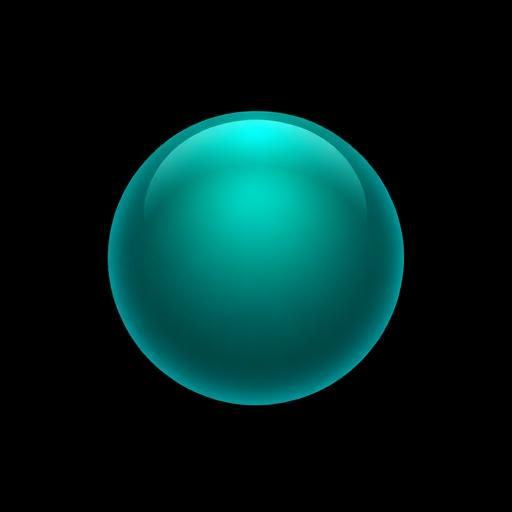
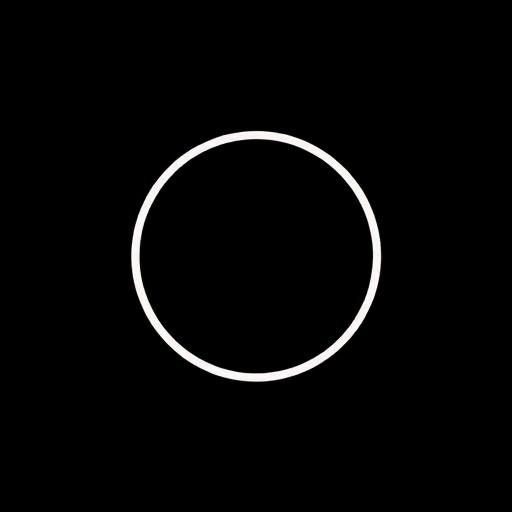
Changes

Changed region(s): [[0.1875, 0.2188, 0.8125, 0.8125]]

diff --git a/src/components/KnowledgeSphere.tsx b/src/components/KnowledgeSphere.tsx
@@ -1,6 +1,6 @@
 import { useRef, useState, useEffect, useMemo } from 'react';
 import { Canvas, useFrame, useThree, ThreeEvent } from '@react-three/fiber';
-import { OrbitControls, Sphere, MeshDistortMaterial, Text } from '@react-three/drei';
+import { OrbitControls, Sphere } from '@react-three/drei';
 import { damp3 } from 'maath/easing';
 import * as THREE from 'three';
 import { Category, ViewLevel } from '@/types/knowledge';
@@ -32,33 +32,15 @@ interface NodeProps {
   cameraPosition: THREE.Vector3;
 }
 
-function InteractiveNode({ position, color, name, onClick, isHovered, onHover, isSubcategory = false, cameraPosition }: NodeProps) {
+function InteractiveNode({ position, color, onClick, isHovered, onHover, isSubcategory = false }: Omit<NodeProps, 'name' | 'cameraPosition'> & { name?: string }) {
   const meshRef = useRef<THREE.Mesh>(null);
-  const glowRef = useRef<THREE.Mesh>(null);
   
   const baseSize = isSubcategory ? 0.1 : 0.12;
-  const glowSize = isSubcategory ? 0.15 : 0.2;
-  
-  // Check if node is on the front side of the sphere (facing camera)
-  const isFrontFacing = useMemo(() => {
-    const nodePos = new THREE.Vector3(...position);
-    const cameraDir = cameraPosition.clone().normalize();
-    const nodeDir = nodePos.clone().normalize();
-    return nodeDir.dot(cameraDir) > 0.1; // Threshold for "front facing"
-  }, [position, cameraPosition]);
-  
-  // Calculate distance-based text scale
-  const textScale = useMemo(() => {
-    const nodePos = new THREE.Vector3(...position);
-    const dist = nodePos.distanceTo(cameraPosition);
-    return Math.max(0.08, Math.min(0.12, 0.5 / dist));
-  }, [position, cameraPosition]);
   
   useFrame(() => {
-    if (meshRef.current && glowRef.current) {
-      const scale = isHovered ? 1.3 : 1;
+    if (meshRef.current) {
+      const scale = isHovered ? 1.4 : 1;
       meshRef.current.scale.lerp(new THREE.Vector3(scale, scale, scale), 0.1);
-      glowRef.current.scale.lerp(new THREE.Vector3(scale * 1.5, scale * 1.5, scale * 1.5), 0.1);
     }
   });
 
@@ -69,13 +51,7 @@ function InteractiveNode({ position, color, name, onClick, isHovered, onHover, i
 
   return (
     <group position={position}>
-      {/* Outer glow - using emissive for accurate color */}
-      <mesh ref={glowRef}>
-        <sphereGeometry args={[glowSize, 16, 16]} />
-        <meshBasicMaterial color={color} transparent opacity={isSubcategory ? 0.15 : 0.2} />
-      </mesh>
-      
-      {/* Main node - MeshBasicMaterial for true color independent of lighting */}
+      {/* Main node - solid color, no text */}
       <mesh
         ref={meshRef}
         onClick={handleClick}
@@ -88,79 +64,23 @@ function InteractiveNode({ position, color, name, onClick, isHovered, onHover, i
           toneMapped={false}
         />
       </mesh>
-      
-      {/* Inner bright core for glow effect */}
-      <mesh>
-        <sphereGeometry args={[baseSize * 0.7, 16, 16]} />
-        <meshBasicMaterial
-          color={color}
-          transparent
-          opacity={0.9}
-          toneMapped={false}
-        />
-      </mesh>
-
-      {/* Billboard text label - only for front-facing nodes */}
-      {isFrontFacing && (
-        <Text
-          position={[0, baseSize + 0.18, 0]}
-          fontSize={textScale}
-          color="#ffffff"
-          anchorX="center"
-          anchorY="bottom"
-          outlineWidth={0.008}
-          outlineColor="#000000"
-          maxWidth={1}
-        >
-          {name}
-        </Text>
-      )}
     </group>
   );
 }
 
 interface CentralSphereProps {
-  color?: string;
-  distort?: number;
   scale?: number;
 }
 
-function CentralSphere({ color = "#22c55e", distort = 0.3, scale = 2 }: CentralSphereProps) {
-  const sphereRef = useRef<THREE.Mesh>(null);
-  const wireframeRef = useRef<THREE.Mesh>(null);
-
-  useFrame(() => {
-    if (sphereRef.current) {
-      sphereRef.current.rotation.y += 0.002;
-    }
-    if (wireframeRef.current) {
-      wireframeRef.current.rotation.y += 0.001;
-    }
-  });
-
+function CentralSphere({ scale = 2 }: CentralSphereProps) {
   return (
-    <>
-      {/* Main solid sphere */}
-      <Sphere ref={sphereRef} args={[scale, 64, 64]}>
-        <MeshDistortMaterial
-          color={color}
-          attach="material"
-          distort={distort}
-          speed={2}
-          roughness={0.2}
-          metalness={0.1}
-        />
-      </Sphere>
-      {/* Wireframe overlay */}
-      <Sphere ref={wireframeRef} args={[scale * 1.02, 32, 32]}>
-        <meshBasicMaterial
-          color="#4ade80"
-          wireframe
-          transparent
-          opacity={0.15}
-        />
-      </Sphere>
-    </>
+    <Sphere args={[scale, 128, 128]}>
+      <meshStandardMaterial
+        color="#d4d4d4"
+        roughness={0.3}
+        metalness={0.1}
+      />
+    </Sphere>
   );
 }
 
@@ -231,7 +151,6 @@ function SceneContent({
   isMobile
 }: SceneContentProps) {
   const [hoveredId, setHoveredId] = useState<string | null>(null);
-  const [cameraPosition, setCameraPosition] = useState<THREE.Vector3>(new THREE.Vector3(0, 0, 20));
   
   const cameraConfig = useMemo(() => {
     if (level === 'root') {
@@ -264,32 +183,28 @@ function SceneContent({
     });
   }, [subcategories]);
 
-  const sphereColor = activeCategory ? activeCategory.color : "#22c55e";
-
   return (
     <>
       <AnimatedCamera 
         targetPosition={cameraConfig.position} 
         targetLookAt={cameraConfig.lookAt}
-        onPositionUpdate={setCameraPosition}
+        onPositionUpdate={() => {}}
       />
 
-      <CentralSphere color={sphereColor} />
+      <CentralSphere />
 
-      <ambientLight intensity={1.2} />
-      <directionalLight position={[5, 5, 5]} intensity={1} />
-      <directionalLight position={[-5, -5, -5]} intensity={0.5} />
+      <ambientLight intensity={0.6} />
+      <directionalLight position={[10, 10, 10]} intensity={1} />
+      <directionalLight position={[-10, -10, -10]} intensity={0.3} />
 
       {level === 'root' && categoriesWithPositions.map(category => (
         <InteractiveNode
           key={category.id}
           position={[category.position_x, category.position_y, category.position_z]}
           color={category.color}
-          name={category.name}
           onClick={() => onCategoryClick(category)}
           isHovered={hoveredId === category.id}
           onHover={(hovered) => setHoveredId(hovered ? category.id : null)}
-          cameraPosition={cameraPosition}
         />
       ))}
 
@@ -298,12 +213,10 @@ function SceneContent({
           key={subcat.id}
           position={[subcat.position_x, subcat.position_y, subcat.position_z]}
           color={activeCategory?.color || '#22c55e'}
-          name={subcat.name}
           onClick={() => onSubcategoryClick(subcat)}
           isHovered={hoveredId === subcat.id}
           onHover={(hovered) => setHoveredId(hovered ? subcat.id : null)}
           isSubcategory
-          cameraPosition={cameraPosition}
         />
       ))}
 
@@ -350,7 +263,7 @@ export function KnowledgeSphere({
         camera={{ position: [0, 0, 7], fov: 50 }}
         gl={{ antialias: true, alpha: true }}
       >
-        <color attach="background" args={['#fafafa']} />
+        <color attach="background" args={['#0a0a0a']} />
         <SceneContent
           categories={categories}
           subcategories={subcategories}

diff --git a/src/components/UniverseView.tsx b/src/components/UniverseView.tsx
@@ -118,7 +118,7 @@ export function UniverseView({ onLogout }: UniverseViewProps) {
   );
 
   return (
-    <div className="fixed inset-0 bg-[#fafafa] overflow-hidden">
+    <div className="fixed inset-0 bg-[#0a0a0a] overflow-hidden">
       {/* Header */}
       <div className="absolute top-0 left-0 right-0 h-16 flex items-center justify-between px-4 md:px-8 z-20 bg-background/50 backdrop-blur-sm border-b border-border/20">
         <div className="flex items-center gap-3">
